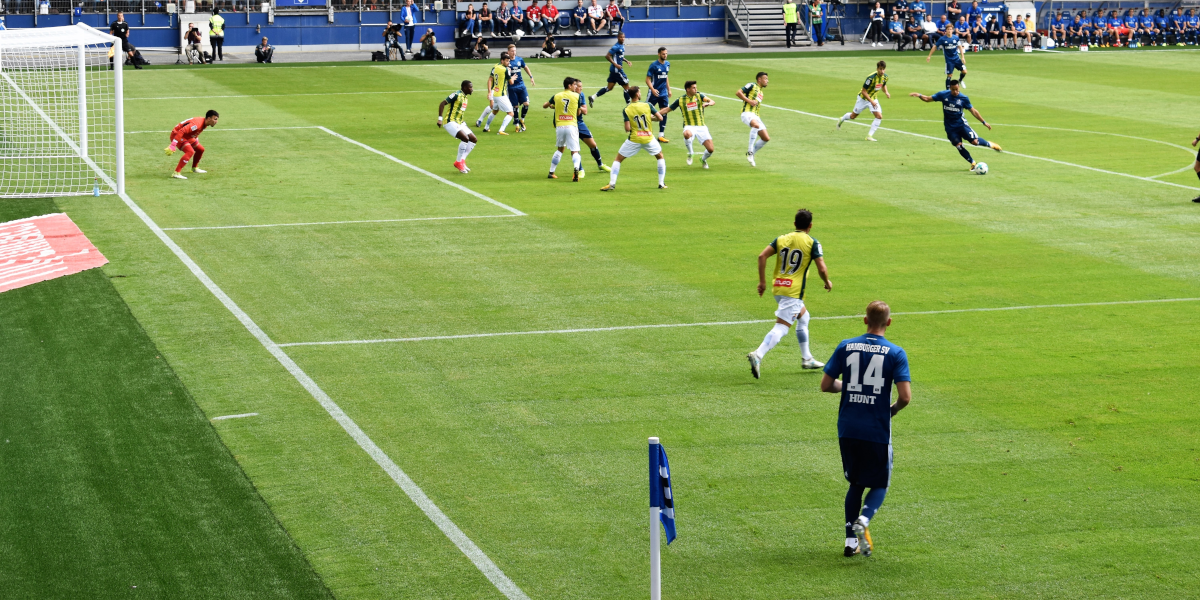
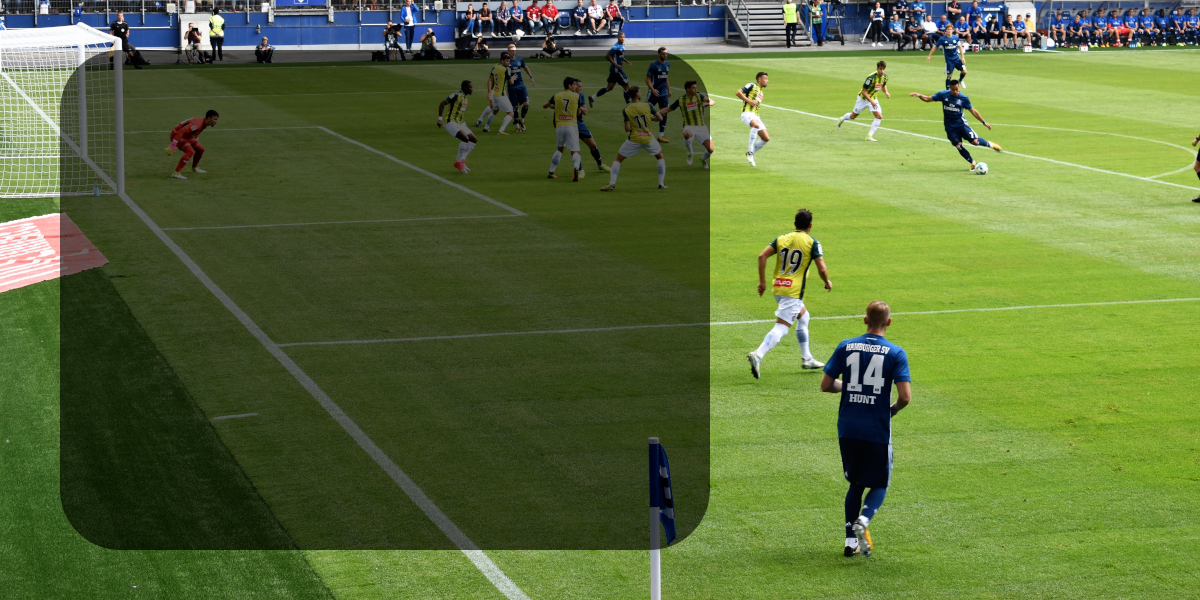
preparing for events list

diff --git a/src/main/java/com/windows/eventsList/EventsWindow.java b/src/main/java/com/windows/eventsList/EventsWindow.java
@@ -3,22 +3,112 @@ package com.windows.eventsList;
 import com.WindowParent;
 
 import javax.swing.*;
+import java.awt.*;
 
 
 public class EventsWindow extends WindowParent {
+
+    private JButton addEventButton;
+    private JPanel eventsPanel;
+    private JScrollPane eventsScrollPane;
+    private JButton[] singleEvent;
 
     public EventsWindow(String backgroundImagePath, JFrame frame) {
         super(backgroundImagePath, frame);
     }
 
+
     @Override
     protected void setComponents(){
+
+        loadEvents();
+
+        int startPositionEventsListX = 90;
+        int startPositionEventsListY = 70;
+
+        addEventButton = new JButton();
+        addEventButton.setHorizontalAlignment(JButton.LEFT);
+        addEventButton.setHorizontalTextPosition(JButton.LEFT);
+        addEventButton.setAlignmentX(JButton.LEFT);
+        addEventButton.setOpaque(false); // transparent button
+        addEventButton.setContentAreaFilled(false); // transparent button
+        addEventButton.setBorderPainted(false); // transparent button
+        addEventButton.setFont(new Font("Arial",Font.BOLD,25));
+        addEventButton.setForeground(new Color(255,255,255));
+        addEventButton.setText("+ Add new event");
+        addEventButton.setBounds(startPositionEventsListX,startPositionEventsListY,400,22);
+        allComponentsHolder.add(addEventButton);
+
+        eventsPanel = new JPanel();
+        eventsPanel.setLayout(null);
+        eventsPanel.setOpaque(false);
+        eventsPanel.setBounds(0, 0, 600, 610);
+
+        eventsPanel.setBorder(null);
+
+        singleEvent = new JButton[20];
+        for(int i=0;i<20;i++){
+            singleEvent[i] = new JButton();
+            singleEvent[i].setBounds(0, 20+(i*40), 580, 20);
+            singleEvent[i].setHorizontalAlignment(JButton.LEFT);
+            singleEvent[i].setHorizontalTextPosition(JButton.LEFT);
+            singleEvent[i].setAlignmentX(JButton.LEFT);
+            singleEvent[i].setOpaque(false);
+            singleEvent[i].setContentAreaFilled(false);
+            singleEvent[i].setBorderPainted(false);
+            singleEvent[i].setForeground(new Color(255,255,255));
+            singleEvent[i].setFont(new Font("Arial",Font.BOLD,23));
+            singleEvent[i].setText("12.01.2023 | FIFA | Hearts Pub | Bartek Cieplik");
+            eventsPanel.add(singleEvent[i]);
+        }
+
+        eventsPanel.setMinimumSize(new Dimension(600, 810));
+        eventsPanel.setPreferredSize(new Dimension(600, 810));
+
+        eventsScrollPane = new JScrollPane(eventsPanel);
+        eventsScrollPane.setBounds(startPositionEventsListX, startPositionEventsListY+20, 600, 430);
+        eventsScrollPane.setOpaque(false);
+        eventsScrollPane.getViewport().setOpaque(false);
+        eventsScrollPane.setBorder(null);
+        eventsScrollPane.getViewport().setBorder(null);
+        eventsScrollPane.setHorizontalScrollBarPolicy(JScrollPane.HORIZONTAL_SCROLLBAR_NEVER);
+        eventsScrollPane.setVerticalScrollBarPolicy(JScrollPane.VERTICAL_SCROLLBAR_ALWAYS);
+        eventsScrollPane.setMinimumSize(new Dimension(600, 430));
+        eventsScrollPane.setPreferredSize(new Dimension(600, 430));
+        eventsScrollPane.getViewport().setMinimumSize(new Dimension(600, 430));
+        eventsScrollPane.getViewport().setPreferredSize(new Dimension(600, 430));
+        allComponentsHolder.add(eventsScrollPane);
+
+
+
+
+
+
+
+
+
+
+
+
+
+
+
+
 
     }
 
     @Override
     protected void setListeners(){
 
+        addEventButton.addActionListener(e -> {
+            System.out.println("+");
+        });
+
     }
+
+    private void loadEvents(){
+
+    }
+
 
 }

diff --git a/src/main/java/com/windows/login/LoginWindow.java b/src/main/java/com/windows/login/LoginWindow.java
@@ -23,35 +23,35 @@ public class LoginWindow extends WindowParent {
     @Override
     protected void setComponents(){
 
-        int startPointPositionX = 490;
-        int startPointPositionY = 200;
+        int startPositionX = 490;
+        int startPositionY = 200;
 
         loginLabel = new JLabel();
         loginLabel.setText("Login:");
         loginLabel.setForeground(new Color(255,255,255));
-        loginLabel.setBounds(startPointPositionX+15,startPointPositionY,70,25);
+        loginLabel.setBounds(startPositionX+15,startPositionY,70,25);
         allComponentsHolder.add(loginLabel);
 
         loginTextField = new JTextField();
-        loginTextField.setBounds(startPointPositionX+85,startPointPositionY,150,25);
+        loginTextField.setBounds(startPositionX+85,startPositionY,150,25);
         allComponentsHolder.add(loginTextField);
 
         passwordLabel = new JLabel();
         passwordLabel.setText("Password:");
         passwordLabel.setForeground(new Color(255,255,255));
-        passwordLabel.setBounds(startPointPositionX+15,startPointPositionY+40,70,25);
+        passwordLabel.setBounds(startPositionX+15,startPositionY+40,70,25);
         allComponentsHolder.add(passwordLabel);
 
         passwordTextField = new JTextField();
-        passwordTextField.setBounds(startPointPositionX+85,startPointPositionY+40,150,25);
+        passwordTextField.setBounds(startPositionX+85,startPositionY+40,150,25);
         allComponentsHolder.add(passwordTextField);
 
         tryToLoginButton = new JButton();
-        tryToLoginButton.setFont(new Font("Arial",Font.PLAIN,15));
+        tryToLoginButton.setFont(new Font("Arial",Font.BOLD,18));
         tryToLoginButton.setText("LOG IN");
         tryToLoginButton.setForeground(new Color(0,255,255));
         tryToLoginButton.setBackground(new Color(80,80,80));
-        tryToLoginButton.setBounds(startPointPositionX,startPointPositionY+100,250,40);
+        tryToLoginButton.setBounds(startPositionX,startPositionY+100,250,40);
         allComponentsHolder.add(tryToLoginButton);
 
         remoteAccessButton = new JButton();
@@ -59,7 +59,7 @@ public class LoginWindow extends WindowParent {
         remoteAccessButton.setText("Remote Access");
         remoteAccessButton.setForeground(new Color(255 ,255,0));
         remoteAccessButton.setBackground(new Color(80,80,80));
-        remoteAccessButton.setBounds(startPointPositionX,startPointPositionY+160,250,30);
+        remoteAccessButton.setBounds(startPositionX,startPositionY+160,250,30);
         allComponentsHolder.add(remoteAccessButton);
 
 

diff --git a/src/main/java/com/windows/constans/WindowBackgroundImageConstants.java b/src/main/java/com/windows/constans/WindowBackgroundImageConstants.java
@@ -6,6 +6,6 @@ public abstract class WindowBackgroundImageConstants {
     // whole image -> 1200x600; login part -> 350x300 (placed on 425x150)
 
     public static final String EVENTS_WINDOW = "background_images/eventsListWindowBackground.png";
-    // whole image -> 1200x600;
+    // whole image -> 1200x600; events part -> 650x500 (placed on 60x50)
 
 }

diff --git a/src/main/java/com/Main.java b/src/main/java/com/Main.java
@@ -34,6 +34,8 @@ public class Main {
                     WindowBackgroundImageConstants.EVENTS_WINDOW, frame);
 
 
+
+
         }
     }
 

diff --git a/src/main/java/com/windows/eventsList/EventsData.java b/src/main/java/com/windows/eventsList/EventsData.java
@@ -1,0 +1,5 @@
+package com.windows.eventsList;
+
+public class EventsData {
+
+}
